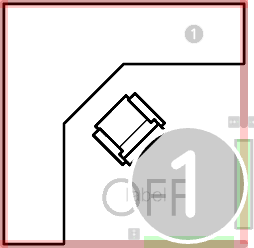
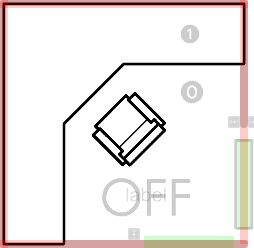
feat: decor point has transform and flipped correctly

Changed region(s): [[0.4961, 0.5081, 0.9921, 0.9879], [0.7165, 0.3105, 0.7992, 0.4234], [0.7165, 0.0847, 0.7992, 0.1976]]

diff --git a/packages/ui/world/src/components/Decor.tsx b/packages/ui/world/src/components/Decor.tsx
@@ -266,7 +266,6 @@ export default function Decor() {
           if (!dims) continue;
 
           // fix flipped decor
-          // 🚧 points too
           if (item.det === -1) {
             state.uvOffsets.set(
               [(entry.rect.x + entry.rect.width) / dims.width, entry.rect.y / dims.height],
@@ -341,11 +340,10 @@ export default function Decor() {
 
           if (decor.type === "point") {
             // point: flat face-up quad centered at (decor.x, decor.y) in XZ plane
-            // 🚧
-            const [a, b, c, d] = decor.transform;
+            tmpMat.setMatrixValue(decor.transform);
             // biome-ignore format: preserve newlines
-            // tmpMat.feedFromArray([a, b, c, d, decor.x - (a + c) * 0.5, decor.y - (b + d) * 0.5]);
-            tmpMat.feedFromArray(decor.transform);
+            tmpMat.preMultiply([entry.originalWidth * sguToWorldScale, 0, 0, entry.originalHeight * sguToWorldScale, 0, 0]);
+
             const mat4 = embedXZMat4(tmpMat, {
               yScale: cuboidIconHeight,
               yHeight: (decor.meta.y ?? 0) + cuboidIconHeight,
